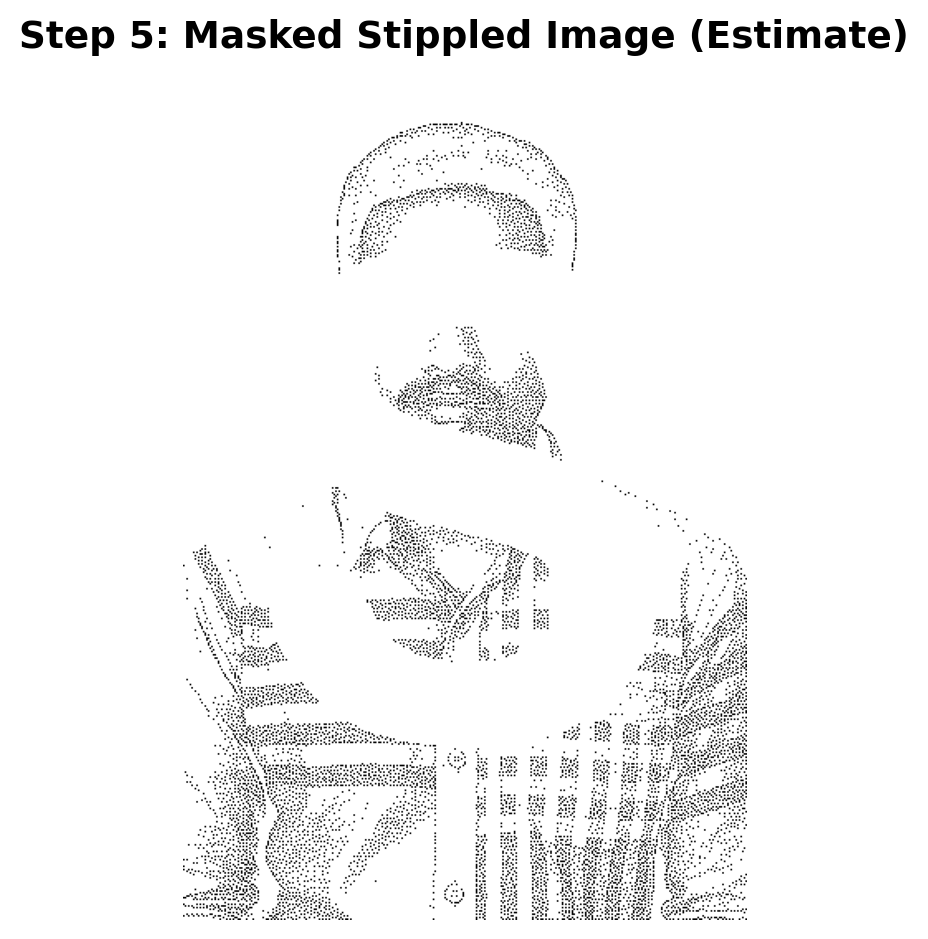
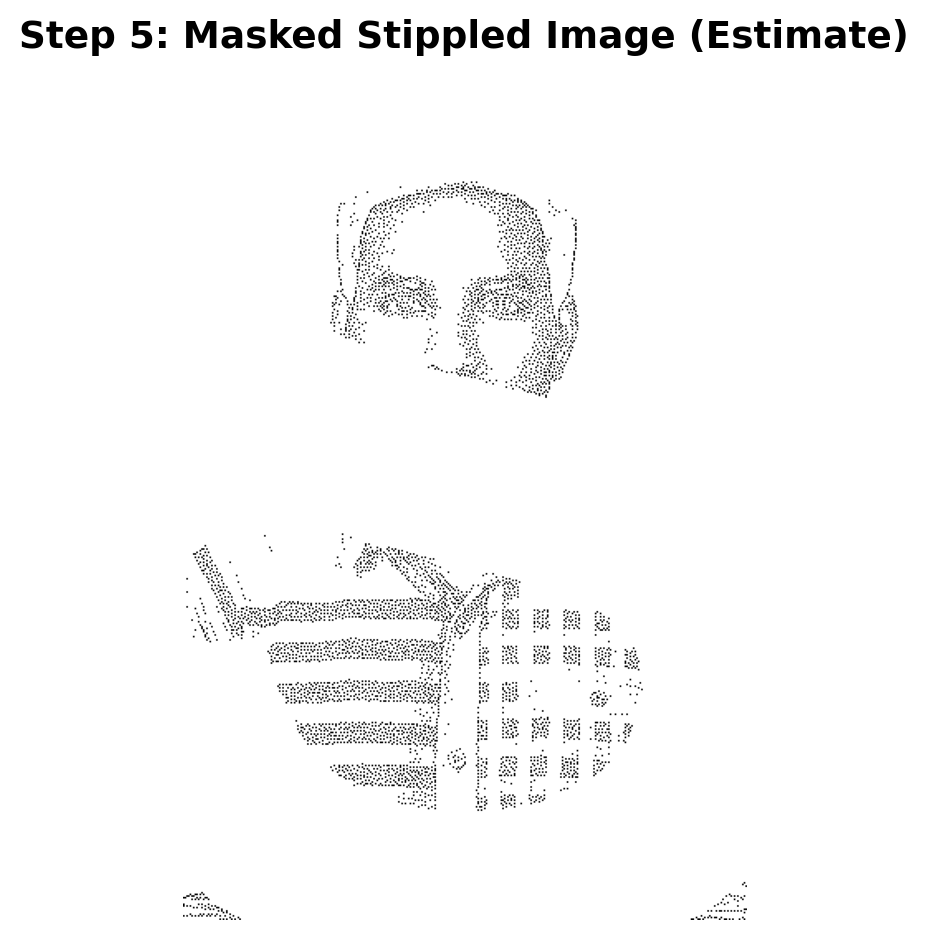
updated

diff --git a/index.html b/index.html
@@ -67,115 +67,9 @@ ul.task-list li input[type="checkbox"] {
 
 <section id="selection-bias-missing-data-challenge" class="level1">
 <h1>🎨 Selection Bias &amp; Missing Data Challenge</h1>
-<section id="step-1-prepare-image" class="level2">
-<h2 class="anchored" data-anchor-id="step-1-prepare-image">Step 1: Prepare Image</h2>
-<p>Load an image, convert to grayscale, and resize to appropriate dimensions while maintaining aspect ratio.</p>
-<div id="cell-step1-prepare" class="cell" data-execution_count="1">
-<div class="cell-output cell-output-stdout">
-<pre><code>Resized image from (1536, 1024) to (512, 341) for processing
-Final image shape: (512, 341) (should be 2D for grayscale)</code></pre>
-</div>
-<div class="cell-output cell-output-display">
-<div id="step1-prepare" class="quarto-figure quarto-figure-center anchored">
-<figure class="figure">
-<p><img src="index_files/figure-html/step1-prepare-output-2.png" width="301" height="470" class="figure-img"></p>
-<figcaption>Original image prepared for processing</figcaption>
-</figure>
-</div>
-</div>
-</div>
-</section>
-<section id="step-2-create-stippled-image" class="level2">
-<h2 class="anchored" data-anchor-id="step-2-create-stippled-image">Step 2: Create Stippled Image</h2>
-<p>Generate a blue noise stippling pattern from the prepared image. This creates a pattern of dots that preserves visual information while maintaining good spatial distribution.</p>
-<div id="cell-step2-stipple" class="cell" data-message="false" data-execution_count="2">
-<div class="cell-output cell-output-stdout">
-<pre><code>Importance map computed
-Generating blue noise stippling pattern...
-Generated 13967 stipple points
-Stipple pattern shape: (512, 341)
-Number of stippled points (0.0 values): 13967
-Number of background points (1.0 values): 160625</code></pre>
-</div>
-<div class="cell-output cell-output-display">
-<div id="step2-stipple" class="quarto-figure quarto-figure-center anchored">
-<figure class="figure">
-<p><img src="index_files/figure-html/step2-stipple-output-2.png" width="301" height="470" class="figure-img"></p>
-<figcaption>Blue noise stippling pattern</figcaption>
-</figure>
-</div>
-</div>
-</div>
-</section>
-<section id="step-3-create-tonal-analysis-optional-refinement-step" class="level2">
-<h2 class="anchored" data-anchor-id="step-3-create-tonal-analysis-optional-refinement-step">Step 3: Create Tonal Analysis (Optional Refinement Step)</h2>
-<p>Create a tonal analysis by dividing the image into a grid and computing average brightness in each section. This visualizes the distribution of tones and helps identify which brightness ranges are most important.</p>
-<div id="cell-step3-tonal" class="cell" data-execution_count="3">
-<div class="cell-output cell-output-stdout">
-<pre><code>Created tonal analysis: grid 16×12
-Tonal statistics: mean=0.639, std=0.220
-Tone range: [0.060, 0.946]</code></pre>
-</div>
-<div class="cell-output cell-output-display">
-<div id="step3-tonal" class="quarto-figure quarto-figure-center anchored">
-<figure class="figure">
-<p><img src="index_files/figure-html/step3-tonal-output-2.png" width="404" height="470" class="figure-img"></p>
-<figcaption>Box-averaged tonal analysis showing brightness distribution</figcaption>
-</figure>
-</div>
-</div>
-<div class="cell-output cell-output-stdout">
-<pre><code>
-📊 Tonal Statistics for Parameter Tuning:
-  Mean brightness: 0.639
-  Standard deviation: 0.220
-  Brightness range: [0.060, 0.946]</code></pre>
-</div>
-</div>
-</section>
-<section id="step-4-create-block-letter-s" class="level2">
-<h2 class="anchored" data-anchor-id="step-4-create-block-letter-s">Step 4: Create Block Letter “S”</h2>
-<p>block letter “S” is created using the create_block_letter_s function.</p>
-<div id="cell-step4-block-letter" class="cell" data-execution_count="4">
-<div class="cell-output cell-output-display">
-<div id="step4-block-letter" class="quarto-figure quarto-figure-center anchored">
-<figure class="figure">
-<p><img src="index_files/figure-html/step4-block-letter-output-1.png" width="421" height="470" class="figure-img"></p>
-<figcaption>Block letter S representing selection bias</figcaption>
-</figure>
-</div>
-</div>
-</div>
-</section>
-<section id="step-5-create-masked-image" class="level2">
-<h2 class="anchored" data-anchor-id="step-5-create-masked-image">Step 5: Create Masked Image</h2>
-<p>Block letter mask is applied on the stippled image.</p>
-<div id="cell-step5-masked" class="cell" data-execution_count="5">
-<div class="cell-output cell-output-display">
-<div id="step5-masked" class="quarto-figure quarto-figure-center anchored">
-<figure class="figure">
-<p><img src="index_files/figure-html/step5-masked-output-1.png" width="464" height="470" class="figure-img"></p>
-<figcaption>Masked stippled image showing selection bias effect</figcaption>
-</figure>
-</div>
-</div>
-</div>
-</section>
-<section id="create-the-final-statistics-meme" class="level2">
-<h2 class="anchored" data-anchor-id="create-the-final-statistics-meme">Create the Final Statistics Meme</h2>
-<div id="create-final-meme" class="cell" data-execution_count="6">
-<div class="cell-output cell-output-stdout">
-<pre><code>Statistics meme saved to: statistics_meme.png
-  Image dimensions: 341 × 512 pixels per panel
-  Total meme size: 1364 × 512 pixels
-  Resolution: 150 DPI</code></pre>
-</div>
-</div>
-</section>
 <section id="final-statistics-meme" class="level2">
 <h2 class="anchored" data-anchor-id="final-statistics-meme">Final Statistics Meme</h2>
-<p>Here’s my completed statistics meme demonstrating selection bias:</p>
-<div id="cell-final-meme" class="cell" data-execution_count="7">
+<div id="cell-final-meme" class="cell" data-execution_count="2">
 <div class="cell-output cell-output-display">
 <div id="final-meme" class="quarto-figure quarto-figure-center anchored">
 <figure class="figure">
@@ -188,7 +82,9 @@ Tone range: [0.060, 0.946]</code></pre>
 <section id="explanation" class="level3">
 <h3 class="anchored" data-anchor-id="explanation">Explanation</h3>
 <ul>
-<li>This meme demonstrates selection bias by showing how selectively keeping only certain stipple points distorts our understanding of the original image. The Reality panel reflects the true population, while the stippled image (Model) represents the full dataset we collect. When the selection bias removes all data except the points inside the “S,” the resulting Estimate becomes systematically distorted and no longer represents the true population — just like biased sampling in real studies leads to incorrect conclusions.</li>
+<li><p>The meme demonstrates selection bias because only the stippled dots inside the block letter “S” are shown in the “Estimate” panel, making that region appear more meaningful or structured than it actually is.</p></li>
+<li><p>This selective reveal hides the majority of the stipple pattern, which is visible in the full “Your Model” panel and shows a much more complex and noisy distribution.</p></li>
+<li><p>By focusing on a non-representative subset of the data, the meme shows how selection bias can lead to misleading interpretations that do not reflect the true underlying image.</p></li>
 </ul>
 </section>
 </section>
